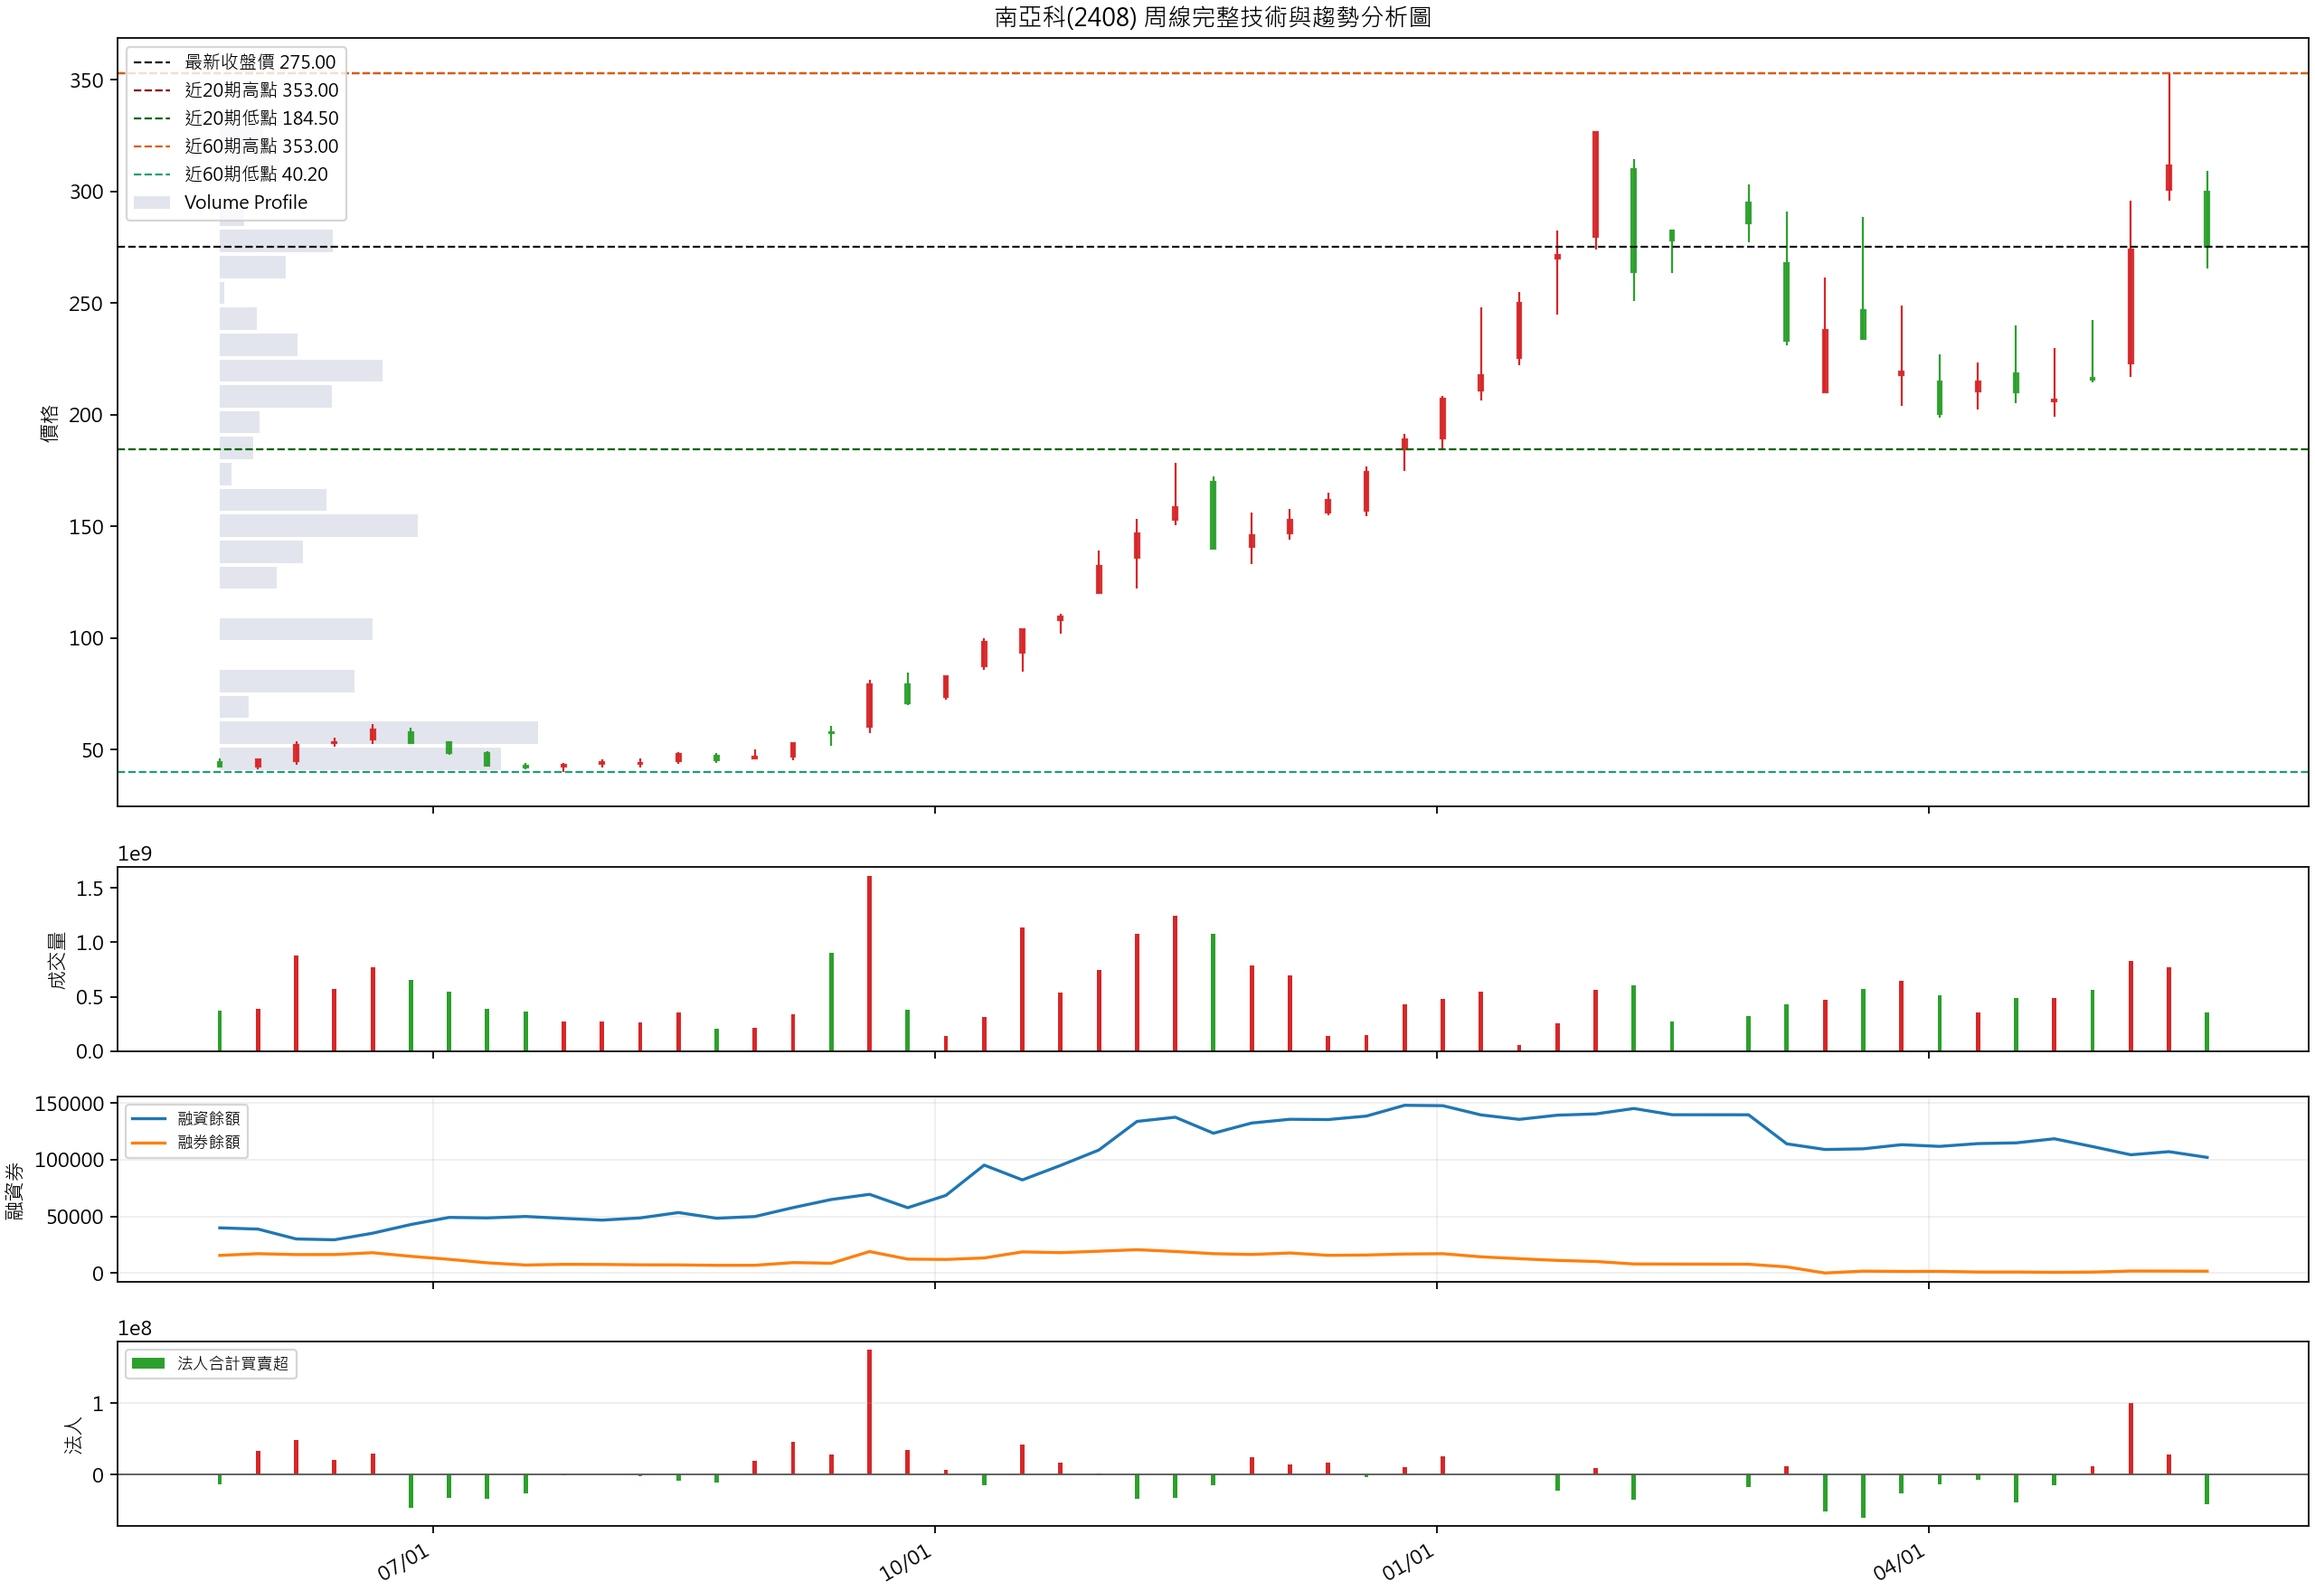
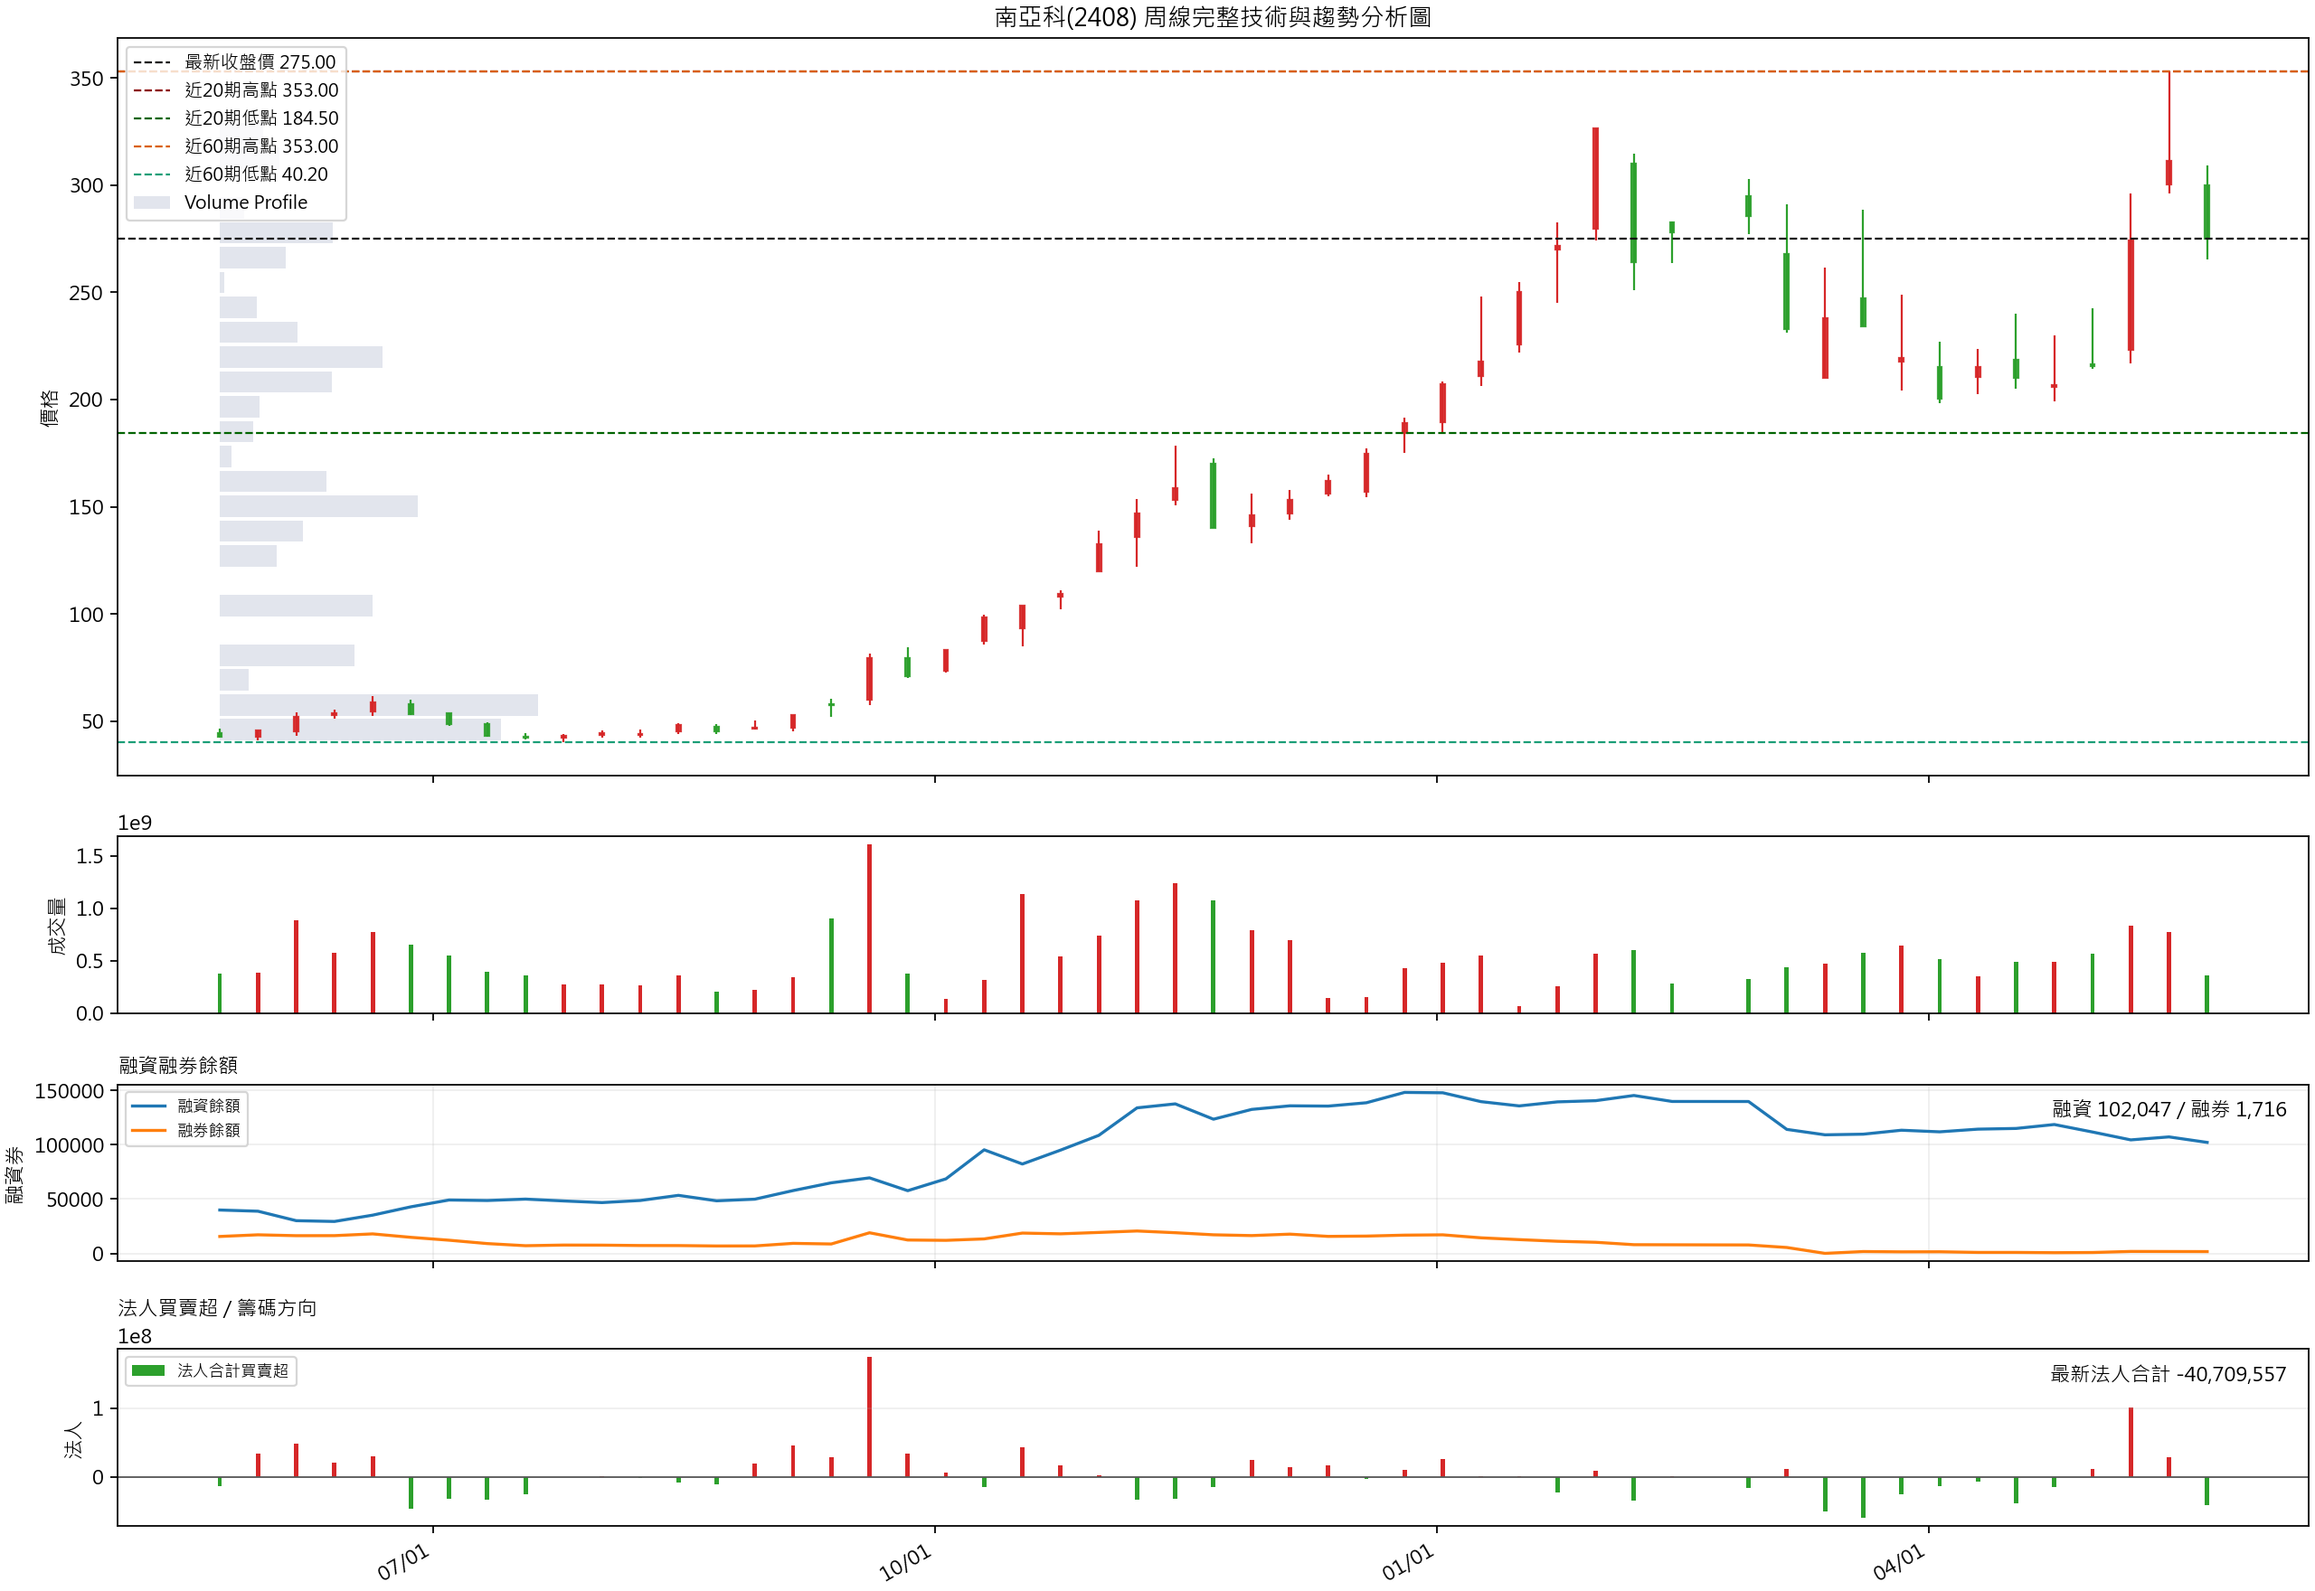
Publish stock report 2408_2026-05-20

diff --git a/2408_2026-05-20/index.html b/2408_2026-05-20/index.html
@@ -60,7 +60,7 @@
 <body>
   <header>
     <h1>南亞科(2408) 台股技術分析報告</h1>
-    <div>產生時間：2026-05-20T18:31:01+08:00</div>
+    <div>產生時間：2026-05-20T18:33:55+08:00</div>
   </header>
   <main>
     <section class="panel">
@@ -84,7 +84,7 @@
 <tr><th>fundamental_period</th><td>status chart only; EPS/monthly revenue not fetched yet</td></tr>
 <tr><th>major_holder_period</th><td>not available; no complete natural person major-holder list claimed</td></tr>
 <tr><th>peer_source_and_list</th><td>peer_themes.json theme rules + FinMind TaiwanStockInfo + TaiwanStockPrice OHLCV; compared=南亞科(2408), 華邦電(2344), 旺宏(2337), 晶豪科(3006), 威剛(3260), 創見(2451), 十銓(4967); failures=none</td></tr>
-<tr><th>generated_at</th><td>2026-05-20T18:31:01+08:00</td></tr>
+<tr><th>generated_at</th><td>2026-05-20T18:33:55+08:00</td></tr>
 <tr><th>timezone</th><td>台北標準時間</td></tr></table>
     </section>
     <section class="panel analysis"><h2>一、圖表重點解讀</h2><ul><li>整體評分為「偏多強勢」（分數 3），主要依據：收盤站上 MA20、收盤站上 MA60、MA20 高於 MA60。</li><li>資料最後交易日為 2026-05-20，最新收盤價 275.00，單日漲跌幅 0.18%；一年區間 40.20～353.00，一年報酬 507.73%。</li><li>趨勢判讀：短中期均線呈多頭排列，價格站在 20 日與 60 日均線上方。 目前 收盤價位於區間中段，短線方向仍需量價確認。</li><li>短線風險 / 空間：距近 20 日低點約 38.19%，距近 20 日高點約 28.36%；量能為近 20 日均量 0.87 倍。</li><li>同族群相對表現：南亞科(2408) 期間報酬 507.73%，排名第 3/7；領先者為 旺宏(2337) 543.84%。</li><li>操作解讀上，若價格突破壓力且量能續增，偏多情境較有延續性；若跌破短線支撐且放量，需優先控管風險。</li></ul></section>
@@ -102,37 +102,37 @@
     
         <section class="panel chart-panel">
           <h2>01_日線完整技術與籌碼分析圖</h2>
-          <img src="01_日線完整技術與籌碼分析圖.png" alt="01_日線完整技術與籌碼分析圖">
+          <img src="01_日線完整技術與籌碼分析圖.png?v=2026-05-20T18:33:55+08:00" alt="01_日線完整技術與籌碼分析圖">
         </section>
         
 
         <section class="panel chart-panel">
           <h2>02_周線完整技術與趨勢分析圖</h2>
-          <img src="02_周線完整技術與趨勢分析圖.png" alt="02_周線完整技術與趨勢分析圖">
+          <img src="02_周線完整技術與趨勢分析圖.png?v=2026-05-20T18:33:55+08:00" alt="02_周線完整技術與趨勢分析圖">
         </section>
         
 
         <section class="panel chart-panel">
           <h2>03_月線完整技術與長期趨勢分析圖</h2>
-          <img src="03_月線完整技術與長期趨勢分析圖.png" alt="03_月線完整技術與長期趨勢分析圖">
+          <img src="03_月線完整技術與長期趨勢分析圖.png?v=2026-05-20T18:33:55+08:00" alt="03_月線完整技術與長期趨勢分析圖">
         </section>
         
 
         <section class="panel chart-panel">
           <h2>04_權證完整分析圖</h2>
-          <img src="04_權證完整分析圖.png" alt="04_權證完整分析圖">
+          <img src="04_權證完整分析圖.png?v=2026-05-20T18:33:55+08:00" alt="04_權證完整分析圖">
         </section>
         
 
         <section class="panel chart-panel">
           <h2>05_同族群比較分析圖</h2>
-          <img src="05_同族群比較分析圖.png" alt="05_同族群比較分析圖">
+          <img src="05_同族群比較分析圖.png?v=2026-05-20T18:33:55+08:00" alt="05_同族群比較分析圖">
         </section>
         
 
         <section class="panel chart-panel">
           <h2>06_基本面分析圖</h2>
-          <img src="06_基本面分析圖.png" alt="06_基本面分析圖">
+          <img src="06_基本面分析圖.png?v=2026-05-20T18:33:55+08:00" alt="06_基本面分析圖">
         </section>
         
     <section class="panel notice">
